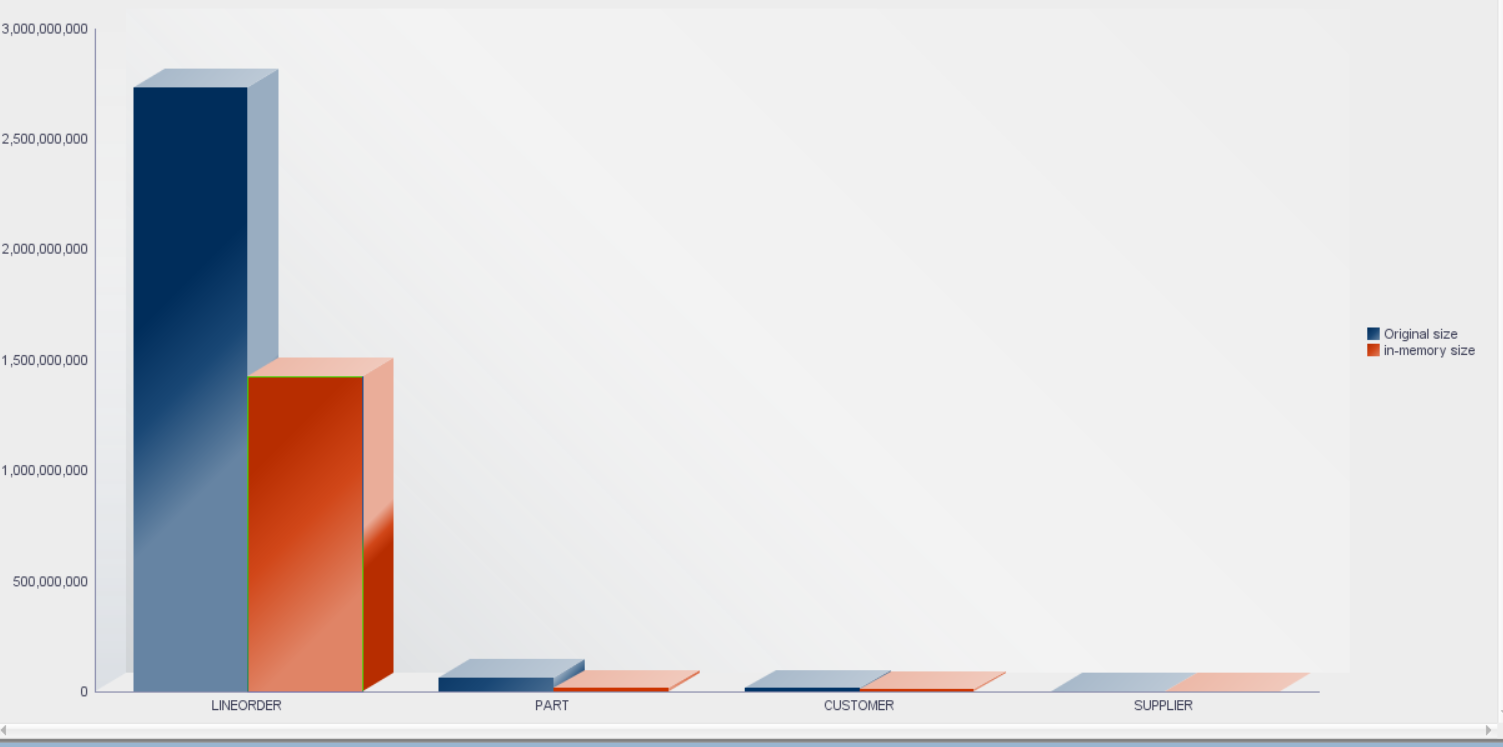
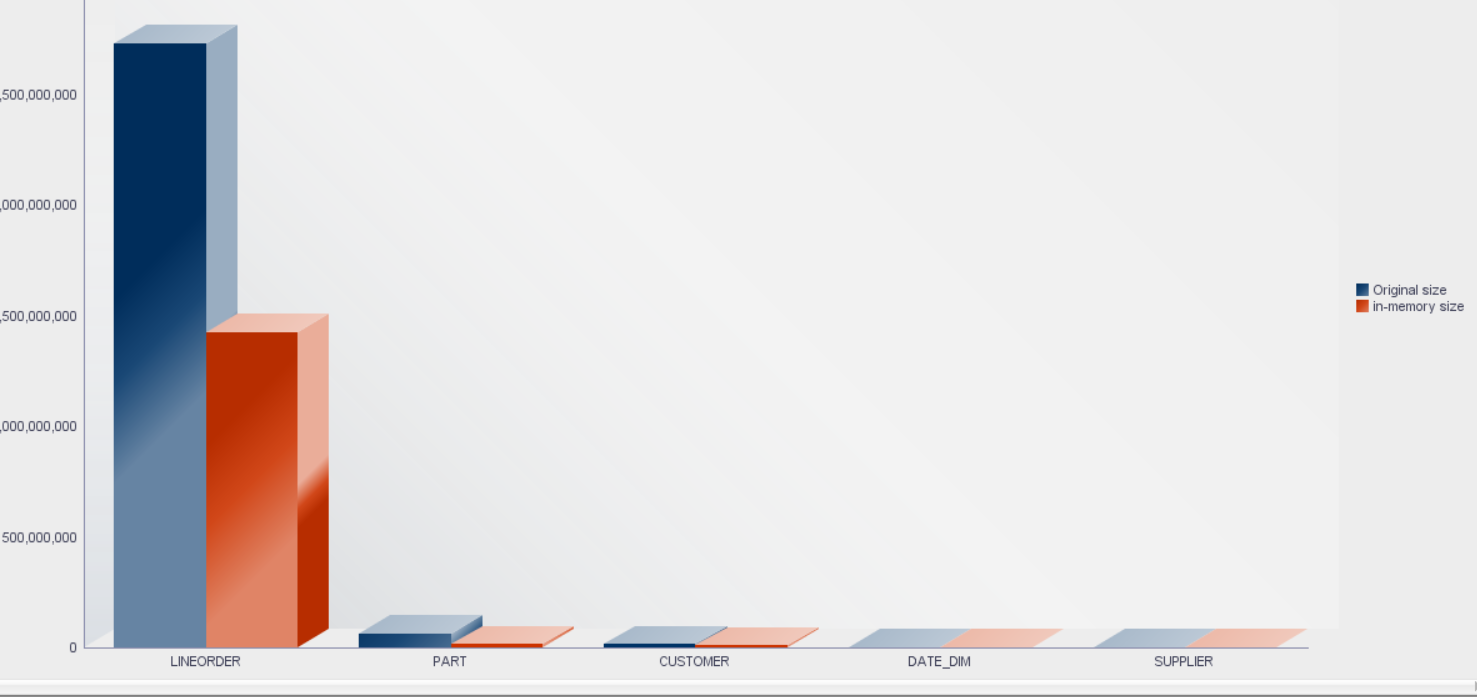
graph

Changed region(s): [[0.0, 0.0301, 1.0, 1.0], [0.9032, 0.3917, 0.9966, 0.4821]]

diff --git a/In_memory/sqlDev/InmemoryPOC.md b/In_memory/sqlDev/InmemoryPOC.md
@@ -20,7 +20,7 @@ The major capability of the tool is
 
 5) Show Barchart of different memory pools in SGA and PieChart of memory used by In-Memory tables.
 
-## Installation
+## Install
 
 The SQL In-Memory POC tool is loaded as a User defined report in Sql\*Developer. You can download Sql\*Developer in the test environment.
 
@@ -100,4 +100,17 @@ And point to the XML file you downloaded.
 Once the POC reports are installed, create a connecting in sqlDeve as the use that is running the POC . Click on the Load Runstats Report.
 The install will have created three objects:A global temporary table called run_statsA view called statsA plsql package called runstats_pkg
 
-## test sql query.
+## Verify the objects are Loaded.
+Click on the report "in-memory-objects"
+This displays the tables that have the property INMEMORY setup and loaded into In-Memory pool. In our test ensure you see LINEORDER,PART,CUSTOMER,DATE_DIM,SUPPLIER. If there are not show here, you can run the report "Load all inmemory tables".
+
+![](images/objectSizeBar.png)
+
+The chart shows the space it used in In-Memory compared to space occupied in buffer. Notice, that space in In-Memory is less than in buffer. Further, due to various compression levels, you could tune the compression level to fill the pool more economically.
+
+Now that the tool is installed, Click on "In-Memory Query vs  Buffer Cache".
+In the popup , enter the following query to see the performance difference, SQL Plan and stats.
+
+````
+ T
+````
